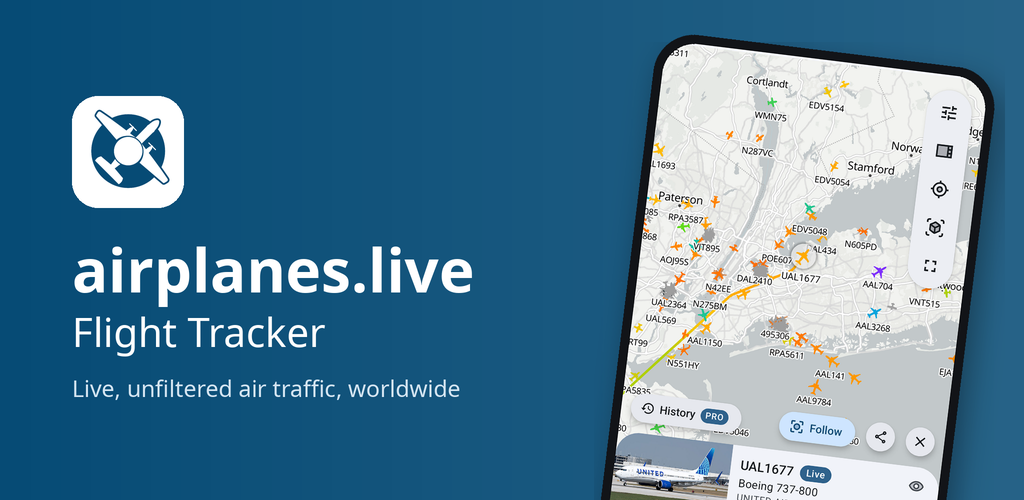
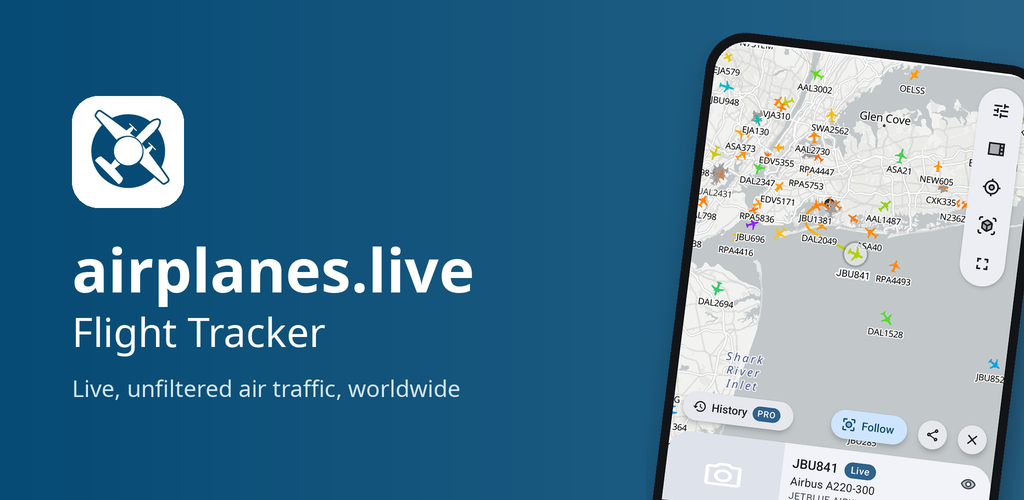
Common: Show no aircraft photo in the store screenshot and feature graphic
The first store screenshot and the feature graphic showed an aircraft
photo the app loads from Planespotters.net. Photographers keep the
copyright to those, so the store images now show none: the map follows
JetBlue JBU841, whose sheet has the "Submit photo" placeholder.

The feature graphic keeps its layout and is now rendered by
fastlane/feature_graphic.py from icon.png and 1_map.png, so it can be
rebuilt after a retake.

Changed region(s): [[0.5625, 0.06, 1.0, 1.0]]

diff --git a/fastlane/feature_graphic.py b/fastlane/feature_graphic.py
@@ -1,0 +1,96 @@
+#!/usr/bin/env python3
+"""Renders the Google Play feature graphic from the app icon and the first store screenshot.
+
+Reads fastlane/metadata/android/en-US/images/icon.png and phoneScreenshots/1_map.png,
+writes images/featureGraphic.png as a 1024x500 24-bit PNG without alpha.
+Rerun it after retaking 1_map.png.
+
+Usage: fastlane/feature_graphic.py [--screenshot PATH] [--out PATH] [--bold FONT.ttf] [--regular FONT.ttf]
+Needs Pillow (pip install pillow) and Noto Sans (Debian/Ubuntu: fonts-noto-core).
+"""
+import argparse
+import os
+import sys
+
+try:
+    from PIL import Image, ImageDraw, ImageFilter, ImageFont
+except ImportError:
+    sys.exit("ERROR: Pillow is missing, install it with: pip install pillow")
+
+IMAGES = os.path.join(os.path.dirname(os.path.abspath(__file__)), "metadata/android/en-US/images")
+FONTS = "/usr/share/fonts/truetype/noto"
+TAGLINE = "Live, unfiltered air traffic, worldwide"
+BLUE = (6, 75, 117)
+W, H = 1024, 500
+S = 2  # supersampling factor
+
+
+def rounded(image, radius):
+    mask = Image.new("L", image.size, 0)
+    ImageDraw.Draw(mask).rounded_rectangle([0, 0, image.width - 1, image.height - 1], radius, fill=255)
+    out = image.copy()
+    out.putalpha(mask)
+    return out
+
+
+def font(path, size):
+    try:
+        return ImageFont.truetype(path, size * S)
+    except OSError:
+        sys.exit(f"ERROR: Font not found: {path}")
+
+
+def render(screenshot, bold, regular):
+    icon = Image.open(os.path.join(IMAGES, "icon.png")).convert("RGBA")
+    screen = Image.open(screenshot).convert("RGBA")
+    if screen.size != (1080, 2400):
+        sys.exit(f"ERROR: {screenshot} is {screen.size[0]}x{screen.size[1]}, the crop below expects 1080x2400")
+
+    canvas = Image.new("RGBA", (W * S, H * S), BLUE)
+    glow = Image.new("RGBA", canvas.size)
+    draw = ImageDraw.Draw(glow)
+    for x in range(canvas.width):
+        draw.line([(x, 0), (x, canvas.height)], fill=(255, 255, 255, int(34 * x / canvas.width)))
+    canvas.alpha_composite(glow)
+
+    # Below the status bar and above the bottom navigation
+    crop = screen.crop((0, 300, 1080, 2160))
+    phone_h = 560 * S
+    phone_w = crop.width * phone_h // crop.height
+    bezel = 9 * S
+    phone = Image.new("RGBA", (phone_w + 2 * bezel, phone_h + 2 * bezel))
+    phone.alpha_composite(rounded(Image.new("RGBA", phone.size, (18, 20, 24, 255)), 40 * S))
+    phone.alpha_composite(rounded(crop.resize((phone_w, phone_h), Image.LANCZOS), 32 * S), (bezel, bezel))
+    phone = phone.rotate(-7, expand=True, resample=Image.BICUBIC)
+
+    shadow = Image.new("RGBA", phone.size)
+    shadow.putalpha(phone.getchannel("A").point(lambda a: int(a * 0.35)))
+    shadow = shadow.filter(ImageFilter.GaussianBlur(14 * S))
+    px, py = 640 * S, 28 * S
+    canvas.alpha_composite(shadow, (px + 6 * S, py + 12 * S))
+    canvas.alpha_composite(phone, (px, py))
+
+    canvas.alpha_composite(rounded(icon.resize((112 * S, 112 * S), Image.LANCZOS), 26 * S), (72 * S, 96 * S))
+
+    draw = ImageDraw.Draw(canvas)
+    x = 72 * S
+    draw.text((x, 228 * S), "airplanes.live", font=font(bold, 60), fill="white")
+    draw.text((x, 304 * S), "Flight Tracker", font=font(regular, 40), fill="white")
+    draw.text((x, 372 * S), TAGLINE, font=font(regular, 23), fill=(214, 230, 242))
+
+    return canvas.resize((W, H), Image.LANCZOS).convert("RGB")
+
+
+def main():
+    parser = argparse.ArgumentParser(description=__doc__, formatter_class=argparse.RawDescriptionHelpFormatter)
+    parser.add_argument("--screenshot", default=os.path.join(IMAGES, "phoneScreenshots/1_map.png"))
+    parser.add_argument("--out", default=os.path.join(IMAGES, "featureGraphic.png"))
+    parser.add_argument("--bold", default=os.path.join(FONTS, "NotoSans-Bold.ttf"))
+    parser.add_argument("--regular", default=os.path.join(FONTS, "NotoSans-Regular.ttf"))
+    args = parser.parse_args()
+    render(args.screenshot, args.bold, args.regular).save(args.out, optimize=True)
+    print(f"Saved {args.out}")
+
+
+if __name__ == "__main__":
+    main()
